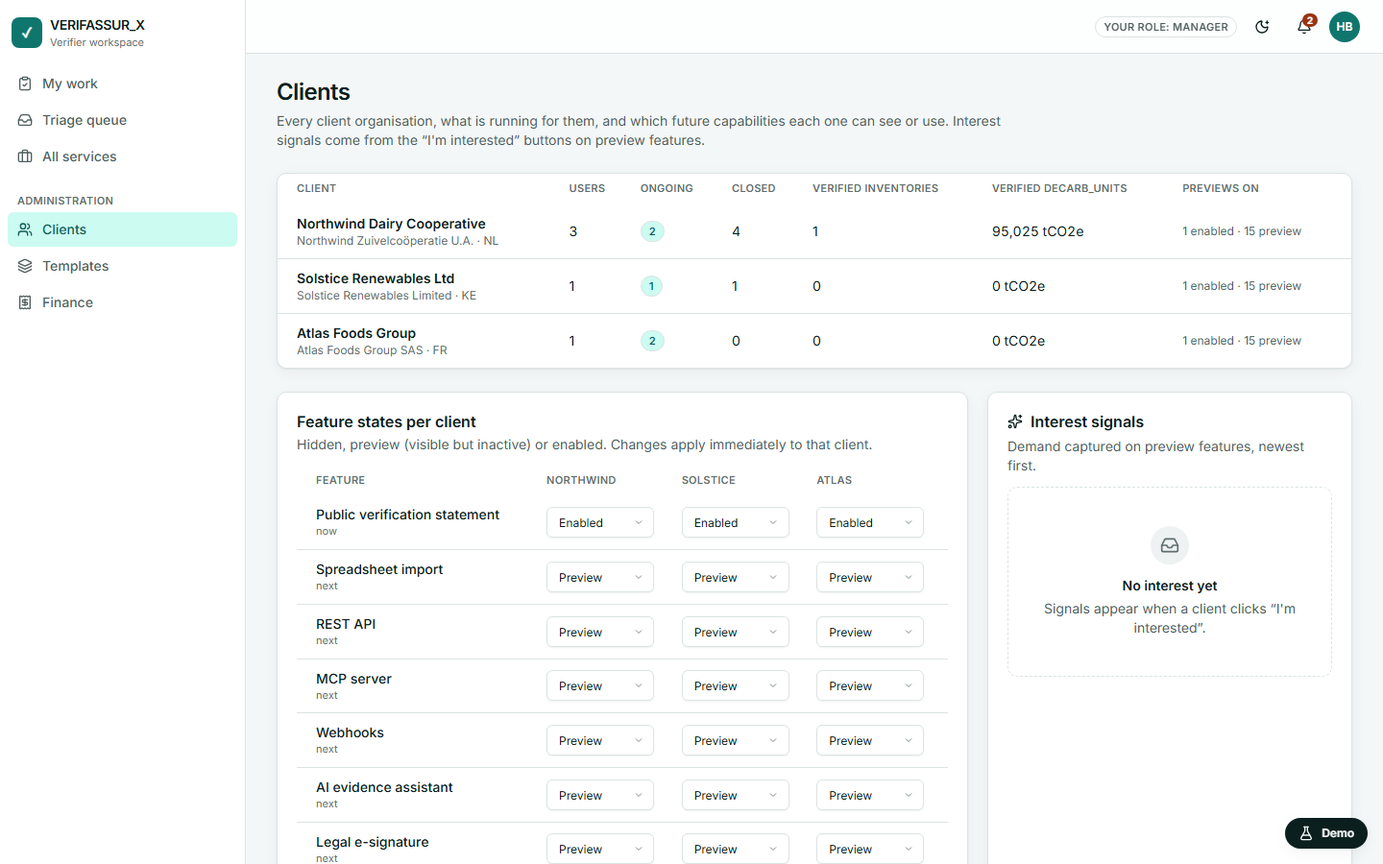
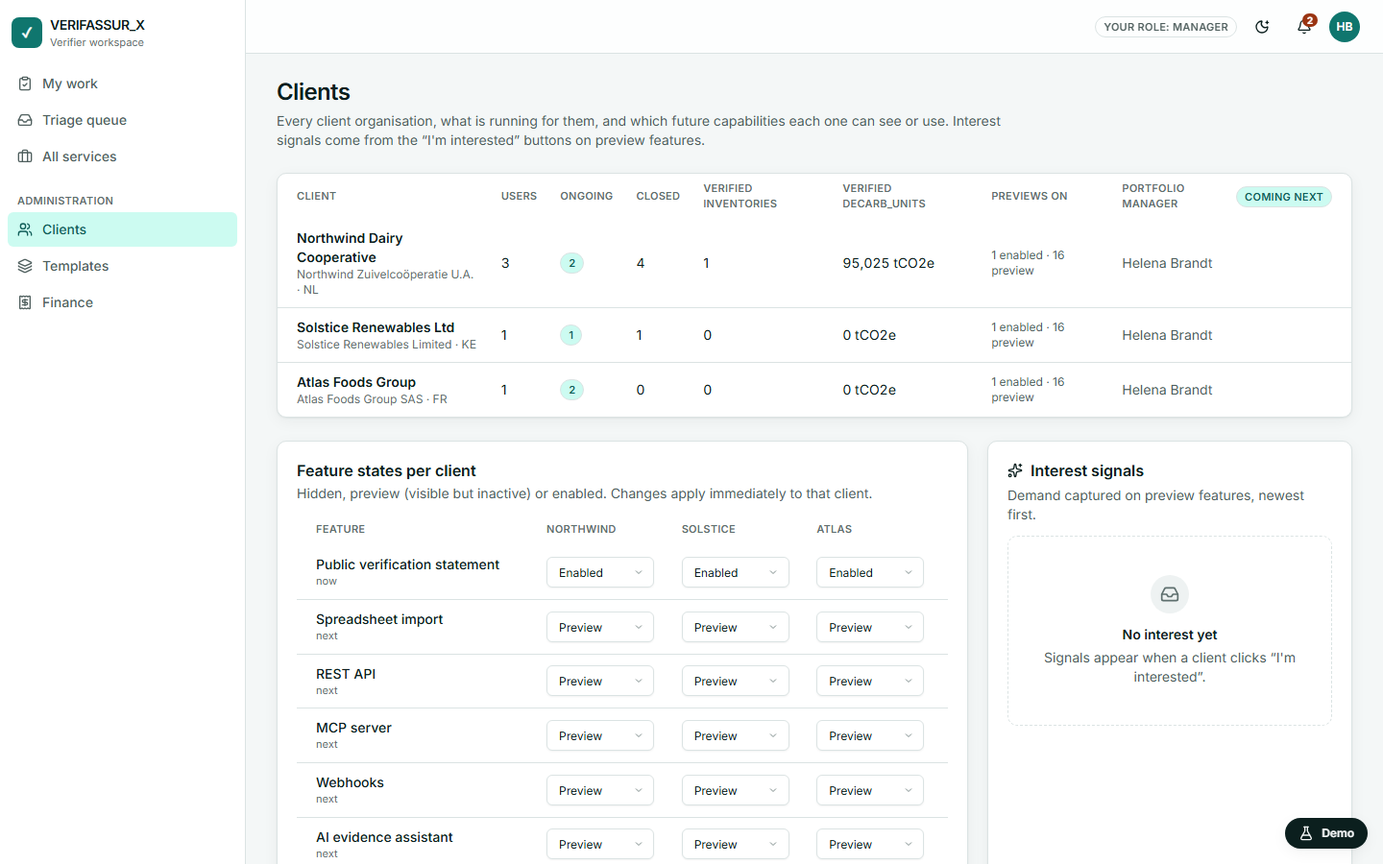
test(demo): step 19 — admin and override specs, storyline chapters 11-12, axe on admin pages, docs
e2e/admin.spec.ts and e2e/override.spec.ts; storyline extended to twelve
chapters; nine administration pages in the axe audit (clean after moving the
break-glass button off the warning background); screenshots 27-31 plus a dark
variant; DEMO_SCRIPT chapters 11 and 12; README v0.2; phase2-handover with the
admin api, override endpoints and new gaps. Fixes: document rows re-render on a
break-glass grant; audit "Overrides" filter is client-side. 80 unit tests,
21 Playwright tests.

diff --git a/demo/e2e/admin.spec.ts b/demo/e2e/admin.spec.ts
@@ -1,0 +1,65 @@
+/** Chapter 11 — the platform administrator (PRD §3.2 v0.2, §6.13): sees everything, administers users, changes no engagement data. */
+import { expect, test } from '@playwright/test'
+import { enterAs } from './helpers'
+
+test('ch.11 — Sam sees the dashboard with money, deactivates a user with a reason and finds it in the audit log', async ({ page }) => {
+  await enterAs(page, /Sam Okafor/)
+  await expect(page).toHaveURL(/\/admin$/)
+  await expect(page.getByRole('heading', { name: 'Administration dashboard' })).toBeVisible()
+  await expect(page.getByText('Platform administrator only')).toBeVisible()
+  await expect(page.getByText('Outstanding', { exact: true }).first()).toBeVisible()
+
+  // Users: deactivate Pieter de Jong (typed confirmation + mandatory reason) and read the reassignment summary.
+  await page.goto('/admin/users')
+  await page.getByRole('button', { name: 'Actions for Pieter de Jong' }).click()
+  await page.getByRole('menuitem', { name: 'Deactivate' }).click()
+  await page.getByLabel(/^Reason/).fill('Left Northwind on 30 September 2026 (HR ticket 4471).')
+  await page.getByPlaceholder('deactivate').fill('deactivate')
+  await page.getByRole('button', { name: 'Deactivate user' }).click()
+  await expect(page.getByText('Pieter de Jong deactivated — work to reassign')).toBeVisible()
+  await expect(page.getByText(/Open findings assigned \(1\)/)).toBeVisible()
+  await page.getByRole('button', { name: 'Done' }).click()
+  await expect(page.getByRole('row', { name: /Pieter de Jong/ }).getByText('Deactivated')).toBeVisible()
+
+  // The audit log shows the action, its actor and its reason.
+  await page.goto('/admin/audit')
+  await expect(page.getByText(/Pieter de Jong deactivated by Sam Okafor/).first()).toBeVisible()
+  await expect(page.getByText('HR ticket 4471').first()).toBeVisible()
+  await page.getByRole('group', { name: 'Audit views' }).getByRole('button', { name: 'Authentication events' }).click()
+  await expect(page.getByText(/Sam Okafor signed in/).first()).toBeVisible()
+
+  // Settings: the announcement banner goes live for everyone.
+  await page.goto('/admin/settings')
+  await page.getByRole('switch', { name: 'Publish Scheduled maintenance' }).click()
+  await expect(page.getByText('Announcement is live in the app shell.')).toBeVisible()
+  await expect(page.getByRole('status').filter({ hasText: 'Scheduled maintenance' })).toBeVisible()
+})
+
+test('ch.11 — Sam opens an engagement and sees no action control, only break-glass for evidence content', async ({ page }) => {
+  await enterAs(page, /Sam Okafor/)
+  await page.goto('/engagements/svc_nw_inv_2025/phases')
+  await expect(page.getByText('Platform administrator: read-only view')).toBeVisible()
+  await expect(page.getByRole('button', { name: 'Close step' })).toHaveCount(0)
+  await expect(page.getByRole('button', { name: 'Override status' })).toHaveCount(0)
+  await expect(page.getByRole('button', { name: /^Actions/ })).toHaveCount(0)
+  await expect(page.getByRole('button', { name: 'Request from client' })).toHaveCount(0)
+  await expect(page.getByRole('button', { name: 'Accept', exact: true })).toHaveCount(0)
+  await expect(page.getByRole('button', { name: 'Re-upload corrected version' })).toHaveCount(0)
+  await expect(page.getByRole('button', { name: /^Upload$/ })).toHaveCount(0)
+  await expect(page.getByText('Content closed').first()).toBeVisible()
+
+  // Break-glass with a reason opens the content for this session and is logged.
+  await page.getByRole('button', { name: 'Break-glass access' }).click()
+  await page.getByLabel(/Why do you need the evidence content/).fill('Support ticket 2210: the client cannot open the activity data sample.')
+  await page.getByRole('button', { name: 'Request access' }).click()
+  await expect(page.getByText(/Break-glass access to VX-2026-0031 recorded/)).toBeVisible()
+  await expect(page.getByText('Content closed')).toHaveCount(0)
+  await page.goto('/admin/audit')
+  await expect(page.getByText(/Break-glass evidence access to VX-2026-0031 by Sam Okafor/).first()).toBeVisible()
+
+  // Records are read-only too.
+  await page.goto('/records/decarb-units/dcu_nw_milk_2025')
+  await expect(page.getByRole('button', { name: 'Verified values' })).toHaveCount(0)
+  await page.goto('/staff/finance')
+  await expect(page.getByRole('button', { name: 'Mark paid' })).toHaveCount(0)
+})

diff --git a/demo/e2e/override.spec.ts b/demo/e2e/override.spec.ts
@@ -1,0 +1,54 @@
+/** Chapter 12 — manager override (PRD §6.14): a stuck step is forced with a reason; the log and the client's next action follow. */
+import { expect, test } from '@playwright/test'
+import { enterAs } from './helpers'
+
+test('ch.12 — Helena forces the desk review to completed with a reason; Ingrid no longer has to re-upload; the log shows the override', async ({ page }) => {
+  // Before: the client is asked to re-upload the rejected activity data.
+  await enterAs(page, /Ingrid Vos/)
+  await expect(page.getByRole('button', { name: /Re-upload Activity data samples/ }).first()).toBeVisible()
+
+  await enterAs(page, /Helena Brandt/)
+  await page.goto('/engagements/svc_nw_inv_2025/phases')
+  await expect(page.getByText('Execution ›')).toBeVisible()
+  await page.getByRole('button', { name: 'Override status' }).click()
+  await page.getByRole('menuitem', { name: 'Force complete' }).click()
+  const dialogButton = page.getByRole('button', { name: 'Force complete' })
+  await expect(dialogButton).toBeDisabled()
+  await page.getByLabel(/Reason for the override/).fill('Evidence reviewed off-platform during the site visit; closing to keep the plan.')
+  await dialogButton.click()
+  await expect(page.getByText(/Override recorded: Desk review is now completed/)).toBeVisible()
+  await expect(page.getByText('Completed by override')).toBeVisible()
+  await expect(page.getByText(/Manager override by Helena Brandt/)).toBeVisible()
+
+  // The Service Log records it as an override with the reason.
+  await page.goto('/engagements/svc_nw_inv_2025/log')
+  await page.getByRole('combobox', { name: 'Filter by event type' }).selectOption('override')
+  await expect(page.getByText(/Override: Desk review completed by Helena Brandt/)).toBeVisible()
+  await expect(page.getByText(/closing to keep the plan/).first()).toBeVisible()
+
+  // The client's next action has moved: the re-upload is no longer asked.
+  await enterAs(page, /Ingrid Vos/)
+  await expect(page.getByText('Needs your action')).toBeVisible()
+  await expect(page.getByRole('button', { name: /Re-upload Activity data samples/ })).toHaveCount(0)
+
+  // The platform administrator's audit log lists the override under the "Overrides" filter.
+  await enterAs(page, /Sam Okafor/)
+  await page.goto('/admin/audit?type=override')
+  await expect(page.getByText(/Override: Desk review completed by Helena Brandt/)).toBeVisible()
+})
+
+test('ch.12 — the manager reassigns a team role with a reason and the new member must declare conflicts', async ({ page }) => {
+  await enterAs(page, /Helena Brandt/)
+  await page.goto('/engagements/svc_atlas_decarb_2025/phases')
+  await expect(page.getByText('Team nomination and conflicts of interest')).toBeVisible()
+  const row = page.getByRole('listitem').filter({ hasText: 'Priya Natarajan' })
+  await row.getByRole('button', { name: 'Reassign' }).click()
+  await page.getByLabel(/New team member/).selectOption('usr_jonas')
+  await page.getByLabel(/Reason for the reassignment/).fill('Priya is on leave until November; Jonas takes the data review.')
+  await page.getByRole('button', { name: 'Reassign role' }).click()
+  await expect(page.getByText(/reassigned to Jonas Weber/)).toBeVisible()
+  await expect(page.getByRole('listitem').filter({ hasText: 'Jonas Weber' }).getByText('COI pending')).toBeVisible()
+  // Impartiality cannot be forced: the completion override is disabled on team nomination.
+  await page.getByRole('button', { name: 'Override status' }).click()
+  await expect(page.getByRole('menuitem', { name: 'Force complete' })).toHaveAttribute('data-disabled', '')
+})

diff --git a/demo/e2e/storyline.spec.ts b/demo/e2e/storyline.spec.ts
@@ -4,8 +4,8 @@ import { enterAs } from './helpers'
 
 test.describe.configure({ mode: 'serial' })
 
-test('the full ten-chapter storyline runs without a dead click', async ({ page }) => {
-  test.setTimeout(240_000)
+test('the full twelve-chapter storyline runs without a dead click', async ({ page }) => {
+  test.setTimeout(300_000)
 
   // 1 — home
   await enterAs(page, /Ingrid Vos/)
@@ -116,4 +116,34 @@ test('the full ten-chapter storyline runs without a dead click', async ({ page }
   await page.goto('/staff/clients')
   await expect(page.getByText('Interest signals')).toBeVisible()
   await expect(page.getByText('Ingrid Vos · Northwind Dairy Cooperative')).toBeVisible()
+  await expect(page.getByText('Portfolio manager')).toBeVisible()
+
+  // 11 — administration
+  await enterAs(page, /Sam Okafor/)
+  await expect(page.getByRole('heading', { name: 'Administration dashboard' })).toBeVisible()
+  await expect(page.getByText('Platform administrator only')).toBeVisible()
+  await page.goto('/admin/users')
+  await page.getByRole('button', { name: 'Actions for Claire Mertens' }).click()
+  await page.getByRole('menuitem', { name: 'Deactivate' }).click()
+  await page.getByLabel(/^Reason/).fill('Retired on 30 September 2026; access no longer needed.')
+  await page.getByPlaceholder('deactivate').fill('deactivate')
+  await page.getByRole('button', { name: 'Deactivate user' }).click()
+  await page.getByRole('button', { name: 'Done' }).click()
+  await page.goto('/admin/audit')
+  await expect(page.getByText(/Claire Mertens deactivated by Sam Okafor/).first()).toBeVisible()
+  await page.goto('/engagements/svc_nw_inv_2025/phases')
+  await expect(page.getByText('Platform administrator: read-only view')).toBeVisible()
+  await expect(page.getByRole('button', { name: 'Close step' })).toHaveCount(0)
+
+  // 12 — manager override on the Solstice verification (in execution since chapter 4)
+  await enterAs(page, /Helena Brandt/)
+  await page.goto('/engagements/svc_sol_ver_2025/phases')
+  await page.getByRole('button', { name: 'Override status' }).click()
+  await page.getByRole('menuitem', { name: 'Force complete' }).click()
+  await page.getByLabel(/Reason for the override/).fill('Desk review done on the shared drive before the platform go-live; closing to align the plan.')
+  await page.getByRole('button', { name: 'Force complete' }).click()
+  await expect(page.getByText(/Override recorded/)).toBeVisible()
+  await page.goto('/engagements/svc_sol_ver_2025/log')
+  await page.getByRole('combobox', { name: 'Filter by event type' }).selectOption('override')
+  await expect(page.getByText(/^Override: .* by Helena Brandt/).first()).toBeVisible()
 })

diff --git a/demo/e2e/a11y.spec.ts b/demo/e2e/a11y.spec.ts
@@ -5,6 +5,7 @@ import { enterAs } from './helpers'
 
 const CLIENT_PAGES = ['/', '/engagements', '/engagements/new', '/projects', '/engagements/svc_nw_inv_2025', '/engagements/svc_nw_inv_2025/phases', '/engagements/svc_nw_inv_2025/documents', '/engagements/svc_nw_inv_2025/findings', '/engagements/svc_nw_decarb_2025/timeline', '/engagements/svc_nw_decarb_2025/opinion', '/engagements/svc_nw_decarb_2025/log', '/records/inventories', '/records/decarb-units/dcu_nw_milk_2025', '/records/emission-factors', '/integrations', '/organisation', '/account']
 const STAFF_PAGES = ['/staff', '/staff/triage', '/staff/services', '/staff/clients', '/staff/templates', '/staff/finance']
+const ADMIN_PAGES = ['/admin', '/admin/users', '/admin/users?tab=organisations', '/admin/audit', '/admin/audit?view=auth', '/admin/coi', '/admin/settings', '/engagements/svc_nw_inv_2025/phases', '/engagements/svc_nw_inv_2025/documents']
 
 async function audit(page: Page, path: string) {
   await page.goto(path)
@@ -29,5 +30,13 @@ test('staff pages and the public statement have no serious or critical accessibi
   for (const p of STAFF_PAGES) problems.push(...(await audit(page, p)))
   await page.goto('/sign-in')
   problems.push(...(await audit(page, '/sign-in')))
+  expect(problems, problems.join('\n')).toEqual([])
+})
+
+test('administration pages have no serious or critical accessibility violations', async ({ page }) => {
+  test.setTimeout(120_000)
+  await enterAs(page, /Sam Okafor/)
+  const problems: string[] = []
+  for (const p of ADMIN_PAGES) problems.push(...(await audit(page, p)))
   expect(problems, problems.join('\n')).toEqual([])
 })

diff --git a/demo/src/components/document-row.tsx b/demo/src/components/document-row.tsx
@@ -1,4 +1,5 @@
 /** Document row with provenance, status and actions (view, download, replace, delete, accept/reject). PRD §7.2. */
+import { useQuery } from '@tanstack/react-query'
 import { Check, Download, Eye, FileText, History, Lock, MoreHorizontal, RefreshCw, Trash2, X } from 'lucide-react'
 import { useState } from 'react'
 import { toast } from 'sonner'
@@ -40,7 +41,9 @@ export function DocumentRow({ doc, serviceId, canReplace, canDelete, canCheck, c
   const v = doc.current
   const locked = Boolean(doc.locked_at)
   // PRD FR-70: the platform administrator sees metadata and hashes; content needs break-glass for this service.
-  const contentAllowed = admin.canReadEvidenceContentSync(serviceId ?? doc.service_id)
+  // A query (same key as the engagement banner) so the grant re-renders every row after the mutation invalidates.
+  const grant = useQuery({ queryKey: ['breakGlass', serviceId ?? doc.service_id], queryFn: async () => admin.canReadEvidenceContentSync(serviceId ?? doc.service_id) })
+  const contentAllowed = grant.data ?? admin.canReadEvidenceContentSync(serviceId ?? doc.service_id)
   const accept = useAppMutation(() => documents.check(serviceId!, v!.id, 'accept'), { successMessage: 'Document accepted.' })
   const remove = useAppMutation(() => documents.removeVersion(v!.id), { successMessage: 'Version deleted.' })
   if (!v) return null

diff --git a/demo/src/routes/_app/admin/audit.tsx b/demo/src/routes/_app/admin/audit.tsx
@@ -35,7 +35,8 @@ function AuditLog() {
   const [search, setSearch] = useState('')
   const orgs = useQuery({ queryKey: ['admin', 'orgs'], queryFn: admin.listOrgs })
   const types = useQuery({ queryKey: ['admin', 'audit', 'types'], queryFn: admin.auditEventTypes })
-  const q = useQuery({ queryKey: ['admin', 'audit', view, orgId, type, from, to, search], queryFn: () => admin.auditLog({ authOnly: view === 'auth', orgId: orgId || undefined, type: type || undefined, from: from || undefined, to: to || undefined, search: search || undefined, limit: 500 }) })
+  // "Overrides" spans three event types, so it is filtered client-side below rather than as a prefix.
+  const q = useQuery({ queryKey: ['admin', 'audit', view, orgId, type, from, to, search], queryFn: () => admin.auditLog({ authOnly: view === 'auth', orgId: orgId || undefined, type: type && type !== 'override' ? type : undefined, from: from || undefined, to: to || undefined, search: search || undefined, limit: 500 }) })
   function exportCsv() {
     const csv = admin.auditCsv(q.data ?? [])
     const url = URL.createObjectURL(new Blob([csv], { type: 'text/csv' }))

diff --git a/demo/src/routes/_app/engagements/$serviceId.tsx b/demo/src/routes/_app/engagements/$serviceId.tsx
@@ -116,7 +116,7 @@ function AdminReadOnlyBanner({ serviceId, reference }: { serviceId: string; refe
       <Alert tone="warning" className="mb-5" icon={<Eye />} title="Platform administrator: read-only view">
         <span>You see every detail of this engagement but cannot act on it. {granted ? 'Evidence content is open for this session under break-glass access; every view is logged.' : 'Document contents stay closed until you request break-glass access with a reason.'}</span>
         {!granted ? (
-          <Button size="sm" variant="outline" className="ml-3" onClick={() => setAsk(true)}>
+          <Button size="sm" variant="secondary" className="ml-3 opacity-100" onClick={() => setAsk(true)}>
             <KeyRound /> Break-glass access
           </Button>
         ) : null}

diff --git a/planning/phase2-handover.md b/planning/phase2-handover.md
@@ -1,6 +1,6 @@
 # Phase II handover — from the demo to the real platform
 
-Date: 2026-10-06 · Demo tag: `v0.1-demo` · Target: the PRD (`0001-prd-verifassurx-platform.md`) and the task list (`tasks-0001-prd-verifassurx-platform.md`).
+Date: 2026-10-06 · Demo tag: `v0.2-demo` (v0.1-demo plus the ADMIN console and manager overrides of PRD v0.2) · Target: the PRD (`0001-prd-verifassurx-platform.md`) and the task list (`tasks-0001-prd-verifassurx-platform.md`).
 
 ## 1. What carries over unchanged
 
@@ -9,7 +9,9 @@ Date: 2026-10-06 · Demo tag: `v0.1-demo` · Target: the PRD (`0001-prd-verifass
 | `demo/src/domain/enums.ts`, `schemas/*` | `packages/schema` | zod schemas are the API contract; add `.openapi()` metadata and they become the OpenAPI spec and the MCP tool inputs. |
 | `demo/src/domain/units.ts`, `compute/*` | `packages/schema` or `packages/workflow` | GWP tables, unit normalisation, inventory and decarb arithmetic. 100 % of the unit tests move with them. |
 | `demo/src/domain/workflow/*` (templates, instantiate, machines, next-action) | `packages/workflow` | Templates become rows in `workflow_templates` (seed from `templates/index.ts`); machines and next-action run unchanged in the Worker. |
-| `demo/src/domain/policy.ts` | `packages/workflow/policy.ts` | Same `decide/can/assertCan`; only the construction of `AuthContext` changes (from the Better Auth session + D1 instead of the mock store). |
+| `demo/src/domain/policy.ts` | `packages/workflow/policy.ts` | Same `decide/can/assertCan`; only the construction of `AuthContext` changes (from the Better Auth session + D1 instead of the mock store). `ADMIN_ACTIONS` is the complete allow-list of the platform administrator; `applyStepOverride` in `machines.ts` is the manager override. |
+| `demo/src/api/admin.ts` (operation names and view shapes) | `apps/app/src/api/routes/admin.ts` (task 13.0) | `listUsers / updateUser / changeRole / deactivateUser → ReassignmentSummary / reactivateUser / resetPassword / resetMfa / forceSignOut / anonymiseUser / inviteUser`, `listOrgs / createOrg / updateOrg / suspendOrg / unsuspendOrg`, `getSettings / updateSettings / listFlagDefaults / setFlagDefault`, announcements CRUD, `auditLog` + `auditCsv`, `coiRegister`, `stats` (FR-71, money only for ADMIN), `breakGlass`, `dataOperation`. Map 1:1 to PRD §10.2 `/admin/*`. |
+| `services.overrideStep / overrideService / replanStep`, `team.reassign` | `apps/app/src/api/routes/overrides.ts` (tasks 5.11, 6.8) | `POST /services/:id/steps/:stepId/override`, `POST /services/:id/override`, `PATCH /services/:id/steps/:stepId/plan`, `POST /services/:id/team/:memberId/reassign`; `requireReason` (10 characters) becomes a zod refinement; audit events `step.overridden`, `service.overridden`, `team.reassigned`, `step.replanned` carry `reason`. |
 | `demo/src/components/*`, `components/ui/*`, `styles/tokens.css` | `packages/ui` | Design system and domain components. Keep the contrast-safe tokens (axe clean). |
 | `demo/src/routes/**` | `apps/app/src/web/routes` | Route tree and screens. Pages only call `@/api/*`, so they keep working once the api layer talks to the Worker. |
 | `demo/src/mock/fixtures/*` | `packages/db/src/seed` and test fixtures | The storyline seed becomes the staging/pilot seed and the e2e fixture. Replace deterministic ids with ULIDs at insert time. |
@@ -37,6 +39,10 @@ Date: 2026-10-06 · Demo tag: `v0.1-demo` · Target: the PRD (`0001-prd-verifass
 - Separation of duties enforced in policy (IR exclusivity; the team leader cannot approve or issue their own opinion) and surfaced in the UI with disabled buttons and explanations.
 - Records: declared and verified values side by side; write-back and supersession on issuance; biogenic CO2 and removals never netted; units explicit with `UnitError` on mismatch.
 - "Show, don't do" dialogs name exactly what the real platform does; reuse the copy for the real dialogs.
+- The platform administrator is an org-level role (`platform_admin` on the verifier org, `memberships.role`), resolved first in the policy and denied every engagement or record mutation; engagement screens render no action control for it (`useServicePermissions().readOnly`). Evidence content needs a break-glass grant per service and session (`admin.break_glass`, `admin.break_glass_read`); in Phase II keep the grant in the session record, not in a table.
+- Manager overrides are distinct actions (`step.override`, `service.override`, `team.reassign`, `step.plan_dates`) with distinct audit events and a mandatory reason; `team_nomination` and `final_opinion` can never be forced to completed. Users and organisations are deactivated or suspended, never deleted; deactivation returns a reassignment summary and notifies the managers.
+- Money rollups exist only in `admin.stats` for the platform administrator; Finance stays per engagement.
+- Sign-ins write `auth.signed_in` audit events and `users.last_sign_in_at`; the ADMIN "Authentication events" view reads the same table.
 
 ## 4. Gaps to close in Phase II (not in the demo)
 
@@ -44,7 +50,8 @@ Date: 2026-10-06 · Demo tag: `v0.1-demo` · Target: the PRD (`0001-prd-verifass
 - E-mail delivery and digests; notification preferences persisted per user.
 - Spreadsheet import, REST API with API keys, MCP server, webhooks (Release 2 of the PRD).
 - Multi-tenant data isolation enforced in the repository layer and covered by cross-org tests (the demo enforces it in `policy.ts` and the api guards).
-- Audit of auth events, re-authentication for agreement acceptance and issuance (the demo only states it).
+- Re-authentication for agreement acceptance, issuance and every ADMIN mutation (`requireRecentAuth(15)`); real password / MFA / passkey resets and session revocation; maintenance mode actually blocking mutations; real exports, backups and the retention job; anonymisation gated by the retention date (the demo only records the events).
+- Portfolios (R2, flag `portfolios`): `organisations.portfolio_manager_user_id` exists and is shown read-only; scoping of My Work, triage and rollups by portfolio is not built.
 - i18n (French), mobile layouts beyond read-only.
 
 ## 5. First steps

diff --git a/planning/plan_v1.md b/planning/plan_v1.md
@@ -276,11 +276,12 @@ Brief: `planning/next-session-prompt.md` (2026-10-06). Decisions taken while exe
   - [x] Sign-in grid and demo panel show Sam Okafor and grey out deactivated personas; chapters 11 and 12 in `demo.CHAPTERS`; `scripts/screenshot.mjs` entries 28–31 added for the visual check.
   - Done when: typecheck, lint, vitest, build and the existing Playwright suite pass. ✔ 80 unit tests, 16 Playwright tests, probe clean on 19 pages.
 
-- [ ] **Step 19 — Tests, screenshots, docs**
-  - [ ] `e2e/admin.spec.ts`, `e2e/override.spec.ts`; chapters 11–12 in `e2e/storyline.spec.ts`; `/admin/*` in `e2e/a11y.spec.ts`, axe clean.
-  - [ ] `scripts/screenshot.mjs` 28–31; two new screenshots embedded in README.
-  - [ ] `DEMO_SCRIPT.md` chapters 11 and 12; README ADMIN persona and overrides; `phase2-handover.md` admin api and override endpoints.
-  - Done when: every unit and Playwright test passes locally.
+- [x] **Step 19 — Tests, screenshots, docs**
+  - [x] `e2e/admin.spec.ts` (Sam: dashboard with money, deactivate Pieter with reason and typed confirmation → reassignment summary, audit and auth log, announcement goes live; Sam on an engagement sees no action control, break-glass opens content and is logged, records and finance read-only) and `e2e/override.spec.ts` (Helena forces the desk review with a reason, "Completed by override", Service Log override filter, Ingrid's re-upload action gone, override in the ADMIN audit log; reassign Priya → Jonas with COI pending, force-complete disabled on team nomination); chapters 11–12 in `e2e/storyline.spec.ts` (Claire deactivated, Solstice desk review overridden); nine `/admin/*` and ADMIN engagement pages in `e2e/a11y.spec.ts`, axe clean.
+  - [x] `scripts/screenshot.mjs` 28–31 captured (plus 27 refreshed for the Portfolio manager column and a dark variant of 28); 28 and 31 embedded in README.
+  - [x] `DEMO_SCRIPT.md` chapters 11 and 12 with the chapter table; README v0.2 paragraph, phase row, role-enforcement note; `phase2-handover.md` admin api and override endpoints, decisions to keep, new gaps.
+  - [x] Fix found by the new spec: document rows now read the break-glass grant through a query so the grant re-renders them; the audit page's "Overrides" filter no longer reaches the api as a prefix.
+  - Done when: every unit and Playwright test passes locally. ✔ 80 unit tests, 21 Playwright tests.
 
 - [ ] **Step 20 — Release v0.2-demo**
   - [ ] All steps ticked, progress log rows with commit hashes, relevant files updated; tag `v0.2-demo` pushed; CI green including Playwright; live site shows Sam Okafor in the sign-in grid.
@@ -363,9 +364,14 @@ Brief: `planning/next-session-prompt.md` (2026-10-06). Decisions taken while exe
 | `demo/src/routes/_app/records/**` | Inventories, emission factors, decarb_units screens |
 | `demo/src/routes/_app/staff/*`, `preview.$key.tsx` | Staff pages; generic preview page |
 | `demo/e2e/*.spec.ts` | Chapter tests, a11y audit, full storyline |
-| `demo/DEMO_SCRIPT.md` | Presenter script |
+| `demo/DEMO_SCRIPT.md` | Presenter script (12 chapters) |
 | `planning/phase2-handover.md` | Handover to the real platform |
-| `assets/demo-screenshots/` | Screenshots (light + dark variants) |
+| `assets/demo-screenshots/` | Screenshots (light + dark variants; 28–31 are the v0.2 admin and override screens) |
+| `planning/next-session-prompt.md` | Brief that drove Phase I.5 (steps 15–20) |
+| `demo/src/api/admin.ts` | Administration console api: users, organisations, settings, announcements, global audit, COI register, FR-71 stats with ADMIN-only money, break-glass, data operations |
+| `demo/src/components/reason-dialog.tsx` | Mandatory-reason dialog (optional typed phrase) used by overrides, deactivation, suspension, break-glass |
+| `demo/src/routes/_app/admin.tsx`, `admin/*.tsx` | Administration portal: layout guard, dashboard, users and organisations, audit log, COI register, settings |
+| `demo/e2e/admin.spec.ts`, `override.spec.ts` | Chapters 11 and 12 in the browser |
 
 ---
 
@@ -391,7 +397,8 @@ Brief: `planning/next-session-prompt.md` (2026-10-06). Decisions taken while exe
 | 2026-10-06 | 15 | 28044ce | PRD v0.2: ADMIN platform administrator, manager overrides, Administration console, portfolios; task list 3.11–3.14, 5.11, 6.8, 11.8, 13.0. | Decisions D1–D10 in §8 |
 | 2026-10-06 | 16 | c27ad8e | Domain: `platform_admin` org role, user / org / audit columns, `PlatformSettings` and `Announcement` schemas, ADMIN allow-list and override actions in policy, `applyStepOverride`, tests (77). | — |
 | 2026-10-06 | 17 | 64a004e | Mock api: `api/admin.ts`, overrides and reassign, audited sign-ins, Sam Okafor and platform fixtures, storyline chapters 11–12. 80 tests. | Chapter 12 resumes the Solstice service to whatever status it had (planning in the api storyline, execution in the browser storyline) |
-| 2026-10-06 | 18 | (next commit) | Administration portal (`/admin/*`), read-only ADMIN everywhere with break-glass, manager override / reassign / replan controls, verified-value dialogs for EFs and decarb records, announcement and maintenance banners, Sam in the persona grid and demo panel. | Screenshot entries 28–31 added one step early for the visual check |
+| 2026-10-06 | 18 | c38a1fc | Administration portal (`/admin/*`), read-only ADMIN everywhere with break-glass, manager override / reassign / replan controls, verified-value dialogs for EFs and decarb records, announcement and maintenance banners, Sam in the persona grid and demo panel. | Screenshot entries 28–31 added one step early for the visual check |
+| 2026-10-06 | 19 | (next commit) | Playwright `admin.spec.ts` and `override.spec.ts`, storyline chapters 11–12, axe on the admin pages, screenshots 27–31, DEMO_SCRIPT chapters 11–12, README, handover. | Break-glass re-render and audit "Overrides" filter fixed |
 
 ---
 

diff --git a/demo/DEMO_SCRIPT.md b/demo/DEMO_SCRIPT.md
@@ -1,6 +1,6 @@
 # VERIFASSUR_X — investor demo script
 
-Ten chapters, about 20 minutes. Everything you click does what the real platform would do; nothing leaves the browser. Progress is kept in this tab only: **reload is safe, closing the tab resets**. The floating **Demo** button (or `Ctrl+.`) switches persona, jumps to a chapter, slows the network, makes the next action fail, or resets.
+Twelve chapters, about 25 minutes (chapters 1–10 are the core product, 11–12 show governance: the platform administrator and manager overrides). Everything you click does what the real platform would do; nothing leaves the browser. Progress is kept in this tab only: **reload is safe, closing the tab resets**. The floating **Demo** button (or `Ctrl+.`) switches persona, jumps to a chapter, slows the network, makes the next action fail, or resets.
 
 Before you start: open the live URL, press `Ctrl+.`, click **Reset demo**, then close the panel. Use a 1440-px-wide window.
 
@@ -16,6 +16,8 @@ Before you start: open the live URL, press `Ctrl+.`, click **Reset demo**, then 
 | 8 | Opinion | Marcus Oyelaran, Tomas Lindqvist, Helena | `/engagements/svc_nw_decarb_2025/opinion` |
 | 9 | Timeline and Service Log | Ingrid | `/engagements/svc_nw_decarb_2025/timeline` |
 | 10 | The future, in preview | Ingrid, then Helena | `/integrations` |
+| 11 | Administration | Sam Okafor (platform administrator) | `/admin` |
+| 12 | Manager override | Helena, then Ingrid | `/engagements/svc_nw_inv_2025/phases` |
 
 ---
 
@@ -104,7 +106,30 @@ Enter as **Ingrid Vos** → `/engagements/svc_nw_decarb_2025/timeline`.
 Still as Ingrid → **Integrations**.
 
 - API keys, MCP server, webhooks and import are visible, greyed, with **I'm interested**. Click it on **MCP server**, add a note, register.
-- Enter as **Helena Brandt** → **Clients**: the interest signal is there, and managers can switch any feature from preview to enabled per client. *The product tells its roadmap and measures demand before we build.*
+- Enter as **Helena Brandt** → **Clients**: the interest signal is there, and managers can switch any feature from preview to enabled per client. Point at the **Portfolio manager** column under its "Coming" badge. *The product tells its roadmap and measures demand before we build.*
+
+## 11. Administration — "sees everything, changes nothing" (3 min)
+
+`Ctrl+.` → enter as **Sam Okafor** (Platform administrator). He lands on the **Administration dashboard**.
+
+Say: *Platform administration is separated from assurance decisions. Sam sees the whole firm, including the money, and cannot touch a single engagement.*
+
+- Top row: engagements started, issued, closed, ongoing. Second row: overdue steps, open blocking findings, COI declarations pending, manager overrides. **Revenue** tiles (quoted, invoiced, paid, outstanding) carry the badge *Platform administrator only*; finance keeps invoicing per engagement. Scroll: per year, per client with concentration, cycle times, by service type and standard, workload per staff member.
+- **Users and organisations**: every person across every organisation with role, MFA, last sign-in and open work. On **Pieter de Jong** open the row menu → **Deactivate**: type a reason and the word `deactivate`. *Deactivate, never delete.* The **reassignment summary** lists his team roles and the open CAR to hand to the manager, who was notified. Show **Reset password**, **Reset MFA**, **Force sign-out** (Back to demo / Simulate) and the **Organisations** tab (create, suspend, Portfolio manager under "Coming").
+- **Audit log**: the deactivation is there with Sam's name and the reason; switch to **Authentication events**; filter **Overrides** later in chapter 12; **Export CSV**.
+- **COI register**: every conflict-of-interest declaration across engagements. *This is what the accreditation body asks for.*
+- **Settings**: switch the prepared **Scheduled maintenance** announcement to **Live**: the banner appears at the top for everyone. Feature flag defaults are live; maintenance mode, branding, templates and data operations open realistic dialogs with Simulate.
+- Open `/engagements/svc_nw_inv_2025/phases` as Sam: the **read-only banner**; no Close step, no Upload, no Accept, no Actions menu. Document rows say **Content closed**. Click **Break-glass access**, type a reason: content opens for this session and the request is in the audit log, managers notified.
+
+## 12. Manager override — "unblock with a reason, never silently" (2 min)
+
+`Ctrl+.` → enter as **Helena Brandt** → `/engagements/svc_nw_inv_2025/phases`. The current step is **Desk review**, stuck on the client's rejected activity data.
+
+Say: *Rules can be too rigid for an edge case. The manager can override, but only with a reason, only in the log, and never the impartiality or issuance gates.*
+
+- Click **Override status** → **Force complete**. The button stays disabled until the reason has ten characters. Type why ("Evidence reviewed off-platform during the site visit…") and confirm. The step shows **Completed by override** with Helena's name and reason; the next step started.
+- **Service Log** → filter **Manager overrides**: the row is highlighted and carries the reason. Optional: **Planned dates** on a step, **Reassign** on the team panel of `/engagements/svc_atlas_decarb_2025/phases` (Priya → Jonas, who must then declare conflicts), and note that **Force complete** is disabled on **Team nomination**.
+- Enter as **Ingrid Vos**: her home no longer asks for the re-upload; the next action moved on.
 
 ---
 

diff --git a/README.md b/README.md
@@ -9,7 +9,9 @@ This repository holds the product planning and, in `demo/`, a clickable front-en
 - **GitHub Pages:** https://rbndchsn.github.io/digital-platform/
 - Cloudflare Pages: activates once the `CLOUDFLARE_API_TOKEN` and `CLOUDFLARE_ACCOUNT_ID` repository secrets are set (the workflow already deploys there).
 
-Open the link, pick a persona under **Demo: enter as…**, and follow [`demo/DEMO_SCRIPT.md`](demo/DEMO_SCRIPT.md) — ten chapters, about twenty minutes. The floating **Demo** button (`Ctrl+.`) switches persona, jumps to a chapter, simulates a slow network or a failed call, and resets.
+Open the link, pick a persona under **Demo: enter as…**, and follow [`demo/DEMO_SCRIPT.md`](demo/DEMO_SCRIPT.md) — twelve chapters, about twenty-five minutes. The floating **Demo** button (`Ctrl+.`) switches persona, jumps to a chapter, simulates a slow network or a failed call, and resets.
+
+Version **v0.2-demo** adds governance: **Sam Okafor, platform administrator**, who sees the whole platform including money rollups and cannot change any engagement or record data, with an Administration portal (dashboard, users and organisations, audit log, COI register, settings, break-glass); and **manager overrides** (Helena Brandt forces a step or service status, reassigns a team role or replans dates, always with a mandatory reason written to the Service Log).
 
 ## What the demo shows
 
@@ -23,6 +25,8 @@ Open the link, pick a persona under **Demo: enter as…**, and follow [`demo/DEM
 | Issued opinion with locked documents and hashes | Public verification page anyone can check |
 | ![decarb_unit record](assets/demo-screenshots/24-decarb-record.png) | ![Inventories](assets/demo-screenshots/23-inventory.png) |
 | decarb_unit record: baseline vs project per gas, 400,000 units | GHG inventories by year, scope and evidence completeness |
+| ![Administration dashboard](assets/demo-screenshots/28-admin-dashboard.png) | ![Manager override](assets/demo-screenshots/31-manager-override.png) |
+| Administration dashboard: rollups and the money only the platform administrator sees | Manager override on a step: force complete, reopen or skip, always with a reason |
 
 More screens in [`assets/demo-screenshots/`](assets/demo-screenshots/), including dark-mode variants.
 
@@ -31,12 +35,14 @@ More screens in [`assets/demo-screenshots/`](assets/demo-screenshots/), includin
 | Phase | What | Where | Status |
 |---|---|---|---|
 | I — Mock platform | Static React app that looks and behaves like the real platform. Every click does what the real one would, driven by an in-browser mock backend. No persistence beyond the browser tab. | `demo/` | **Done, v0.1-demo** |
+| I.5 — ADMIN, overrides, rollups | PRD v0.2: platform administrator persona and Administration portal, manager overrides with mandatory reason, money rollups, portfolios preview. | `demo/` | **Done, v0.2-demo** |
 | II — Real platform | Cloudflare implementation (Workers, D1, R2, Better Auth) described in the PRD. | `verifassurx/` (future) | Not started; see [`planning/phase2-handover.md`](planning/phase2-handover.md) |
 
 ## How the mock works
 
 - **Real domain, fake persistence.** Workflow templates, state machines, the next-action rule, the role policy, GHG arithmetic and the `decarb_unit` computation are real TypeScript in `demo/src/domain/` with unit tests. Phase II lifts them unchanged.
-- **Mock backend.** `demo/src/mock/` seeds four organisations, eleven personas, ten engagements and the records from the storyline, keeps them in memory and in `sessionStorage`, and `demo/src/api/` exposes the same operations the PRD defines as endpoints. Every mutation runs policy → state machine → store → audit event → notification.
+- **Mock backend.** `demo/src/mock/` seeds four organisations, twelve personas, ten engagements and the records from the storyline, keeps them in memory and in `sessionStorage`, and `demo/src/api/` exposes the same operations the PRD defines as endpoints. Every mutation runs policy → state machine → store → audit event → notification.
+- **Roles are enforced, not decorated.** The policy in `demo/src/domain/policy.ts` resolves the platform administrator first (an allow-list of reads and `admin.*` actions, every mutation denied), then org and service roles, the COI gate and separation of duties. Manager overrides are separate actions with their own audit events and a mandatory reason.
 - **"Show, don't do."** File pickers, downloads, e-mail, signing and connectors open the real-looking dialog with a **Back to demo** exit and a **Simulate** button that records the outcome in the session.
 - **Future features in preview.** API keys, MCP, webhooks, AI assistant, e-signature, exports, registry links and more are visible but inactive, with **I'm interested** capturing demand that VERIFASSUR staff see on the Clients page.
 
